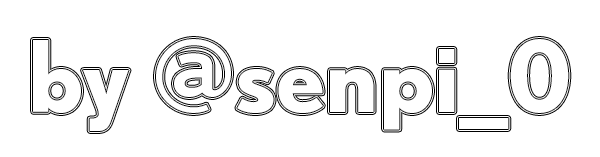
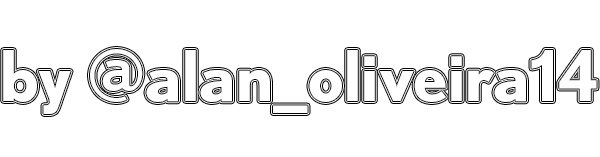
3

Changed region(s): [[0.0, 0.2293, 1.0, 0.8662], [0.87, 0.6879, 0.93, 0.7389]]

diff --git a/index.html b/index.html
@@ -1,16 +1,12 @@
 
 <head>
-<meta property="og:image" content="/img/favicon.png"/>
-<meta property="og:image:secure_url" content="/img/favicon.png" />
-	<!-- Global site tag (gtag.js) - Google Analytics -->
-<script async src="https://www.googletagmanager.com/gtag/js?id=UA-117743195-1"></script>
-<script>
-  window.dataLayer = window.dataLayer || [];
-  function gtag(){dataLayer.push(arguments);}
-  gtag('js', new Date());
-
-  gtag('config', 'UA-117743195-1');
-</script>
+<!-- Google Tag Manager -->
+<script>(function(w,d,s,l,i){w[l]=w[l]||[];w[l].push({'gtm.start':
+new Date().getTime(),event:'gtm.js'});var f=d.getElementsByTagName(s)[0],
+j=d.createElement(s),dl=l!='dataLayer'?'&l='+l:'';j.async=true;j.src=
+'https://www.googletagmanager.com/gtm.js?id='+i+dl;f.parentNode.insertBefore(j,f);
+})(window,document,'script','dataLayer','GTM-59H9WMC');</script>
+<!-- End Google Tag Manager -->
 	<style>
 h2.a {
     visibility: visible;
@@ -66,9 +62,18 @@ function clickedOn(idnum,childnum) {
 }
 </script>
 </head><body>
+<!-- Google Tag Manager (noscript) -->
+<noscript><iframe src="https://www.googletagmanager.com/ns.html?id=GTM-59H9WMC"
+height="0" width="0" style="display:none;visibility:hidden"></iframe></noscript>
+<!-- End Google Tag Manager (noscript) -->
 <b id="clicktext" style="position:absolute;left:3px;top:0px;color:black;font-family:sans-serif;visibility:visible"> Clique nos títulos pra selecionar os seus favoritos, e que vença o melhor!&nbsp;<br>&nbsp;&nbsp;<a href="https://www.facebook.com/lojashinohara" target="_blank"><img src="img/fb.png" width="20px" height="20px"/></a> &nbsp;&nbsp;<a href="https://www.youtube.com/user/LojaShinohara" target="_blank"><img src="img/yt.png" width="20px" height="20px"/></a> &nbsp;&nbsp;<a href="https://www.instagram.com/lojashinohara/" target="_blank"><img src="img/ins.png" width="20px" height="20px"/></a>   &nbsp;
 </b>
-<img src="img/brackett.png" style="position:absolute;top:59px;left:0px;"><a href="https://www.lojashinohara.com.br/" target="_blank"><img src="/img/logokk.png" width="400" style="position:absolute;top:40px;left:820px"><a href="https://twitter.com/senpi_0" target="_blank"><img src="/img/cred.png" width="100" style="position:absolute;top:150px;left:970px"><h2 class="b"><img src="/img/fbs.png" style="”hidden;”"></h2>
+<img src="img/brackett.png" style="position:absolute;top:59px;left:0px;"><a href="https://www.lojashinohara.com.br/" target="_blank"><img src="/img/logokk.png" width="400" style="position:absolute;top:10px;left:820px"></a><a href="https://twitter.com/alan_oliveira14" target="_blank"><img src="/img/cred.png" width="100" style="position:absolute;top:120px;left:970px">
+
+</a>
+    <a href="https://twitter.com/senpi_0" target="_blank"><img src="/img/cred2.png" width="50" style="position:absolute;top:140px;left:995px">
+
+</a>
 
 
 <a href="javascript:void(0)" onclick="clickedOn(1,33)"><img id="img1" src="	img/1.png" width="120" height="28" style="position:absolute;top:45px;left:30px"></a>
